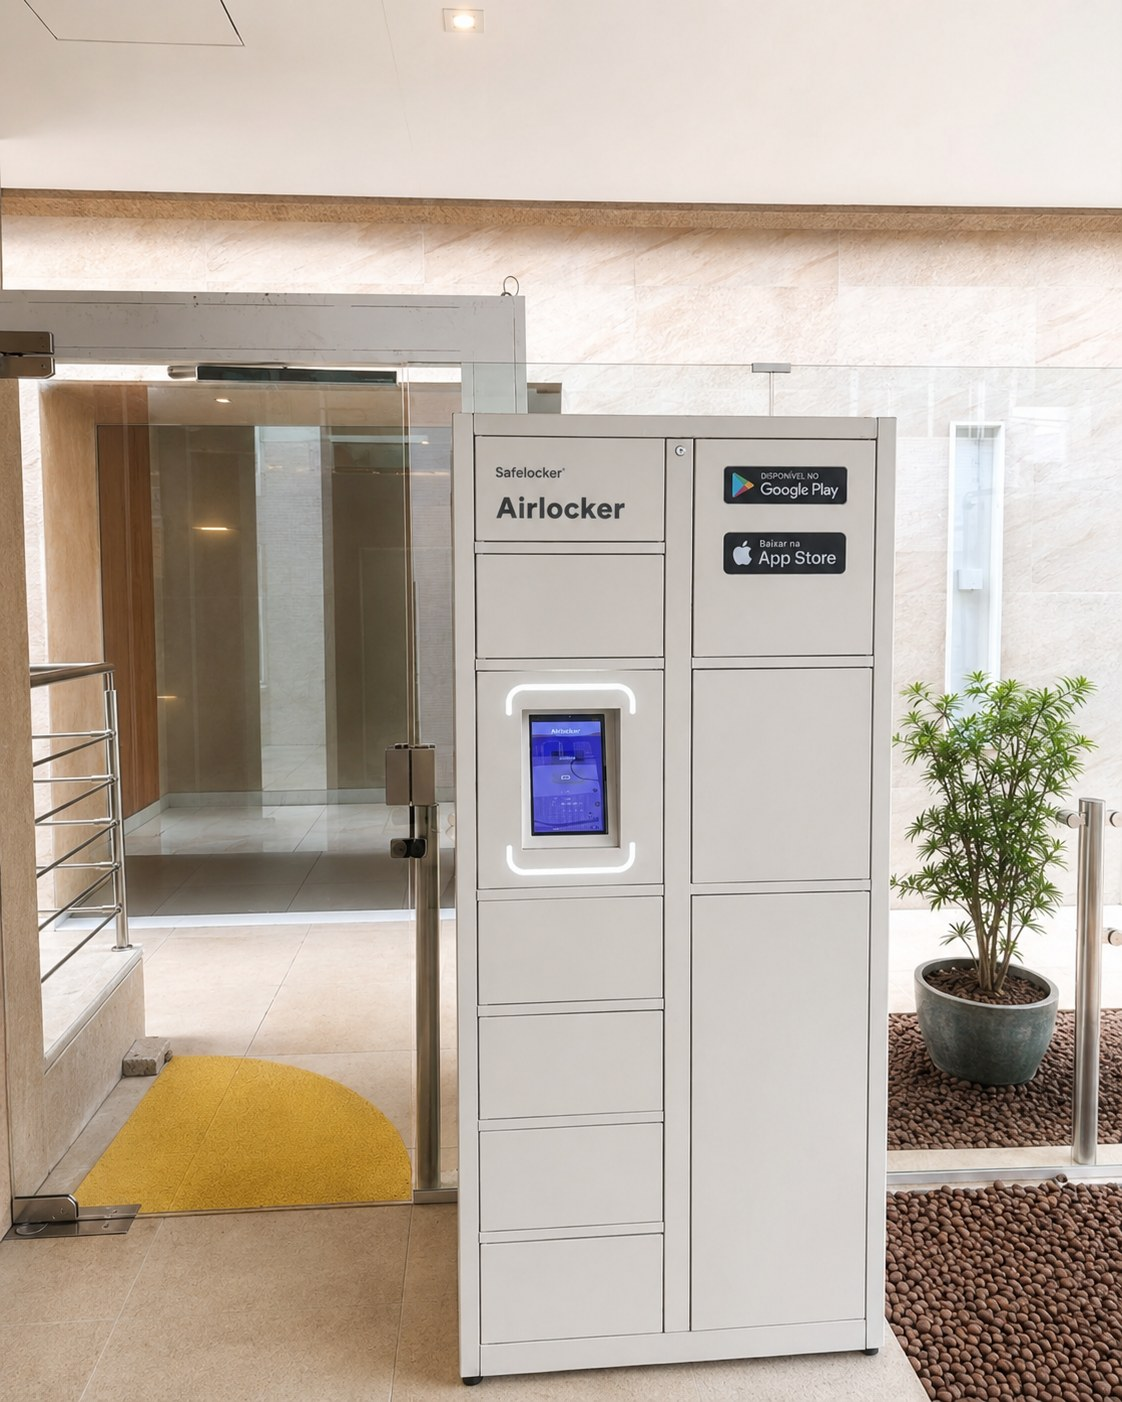
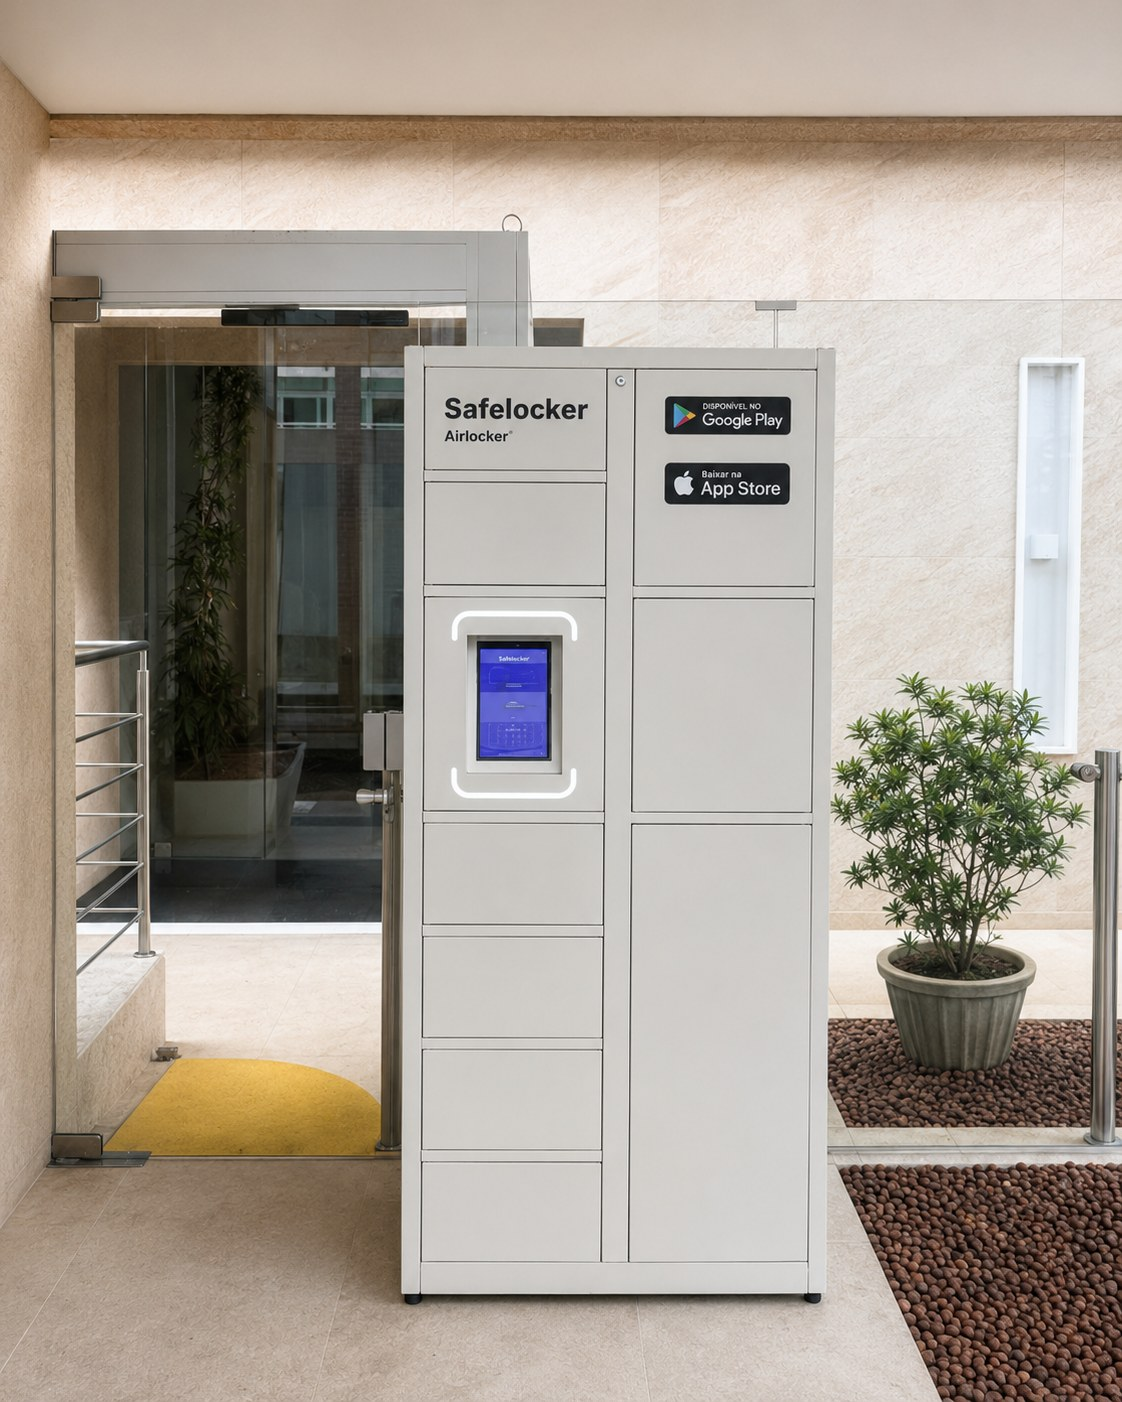
Atualiza texto regional e foto do locker compacto

diff --git a/index.html b/index.html
@@ -965,7 +965,7 @@
                     <p style="padding: 0 20px 20px; text-align: center; color: #666;">Tela touchscreen e design moderno. Integração total com app e Correios.</p>
                 </div>
                 <div class="product-card">
-                    <img src="images/locker4.jpg?v=lockers-20260518b" alt="Smart Locker Compacto">
+                    <img src="images/locker4.jpg?v=locker4-20260518c" alt="Smart Locker Compacto">
                     <h3>LOCKER COMPACTO</h3>
                     <p style="padding: 0 20px 20px; text-align: center; color: #666;">Ideal para encomendas pequenas e médias. Perfeito para apartamentos, recepções e espaços reduzidos.</p>
                 </div>
@@ -1124,7 +1124,7 @@
             <h2>SafeLocker no ES, BH e MS</h2>
             <div class="location-container">
                 <div class="location-text">
-                    <p style="font-size: 18px; margin-bottom: 30px;">Não é uma solução “só de Vila Velha”. A operação principal atende Espírito Santo, Belo Horizonte e Mato Grosso do Sul, com canais regionais para agilizar implantação, visita técnica e suporte.</p>
+                    <p style="font-size: 18px; margin-bottom: 30px;">A SafeLocker atende condomínios e empresas no Espírito Santo, Belo Horizonte e Mato Grosso do Sul, com canais regionais para agilizar implantação, visita técnica e suporte.</p>
                     <a href="https://wa.me/552731901960?text=Olá!%20Gostaria%20de%20agendar%20uma%20visita%20SafeLocker" class="cta-button" target="_blank">Agendar conversa com SafeLocker</a>
                 </div>
                 <div style="display: grid; grid-template-columns: repeat(auto-fit, minmax(220px, 1fr)); gap: 18px; flex: 1;">

diff --git a/es/index.html b/es/index.html
@@ -956,7 +956,7 @@
                     <p style="padding: 0 20px 20px; text-align: center; color: #666;">Tela touchscreen e design moderno. Integração total com app e Correios.</p>
                 </div>
                 <div class="product-card">
-                    <img src="/images/locker4.jpg?v=lockers-20260518b" alt="Smart Locker Compacto">
+                    <img src="/images/locker4.jpg?v=locker4-20260518c" alt="Smart Locker Compacto">
                     <h3>LOCKER COMPACTO</h3>
                     <p style="padding: 0 20px 20px; text-align: center; color: #666;">Ideal para encomendas pequenas e médias. Perfeito para apartamentos, recepções e espaços reduzidos.</p>
                 </div>

diff --git a/ms/index.html b/ms/index.html
@@ -951,7 +951,7 @@
                     <p style="padding: 0 20px 20px; text-align: center; color: #666;">Tela touchscreen e design moderno. Integração total com app e Correios.</p>
                 </div>
                 <div class="product-card">
-                    <img src="/images/locker4.jpg?v=lockers-20260518b" alt="Smart Locker Compacto">
+                    <img src="/images/locker4.jpg?v=locker4-20260518c" alt="Smart Locker Compacto">
                     <h3>LOCKER COMPACTO</h3>
                     <p style="padding: 0 20px 20px; text-align: center; color: #666;">Ideal para encomendas pequenas e médias. Perfeito para apartamentos, recepções e espaços reduzidos.</p>
                 </div>